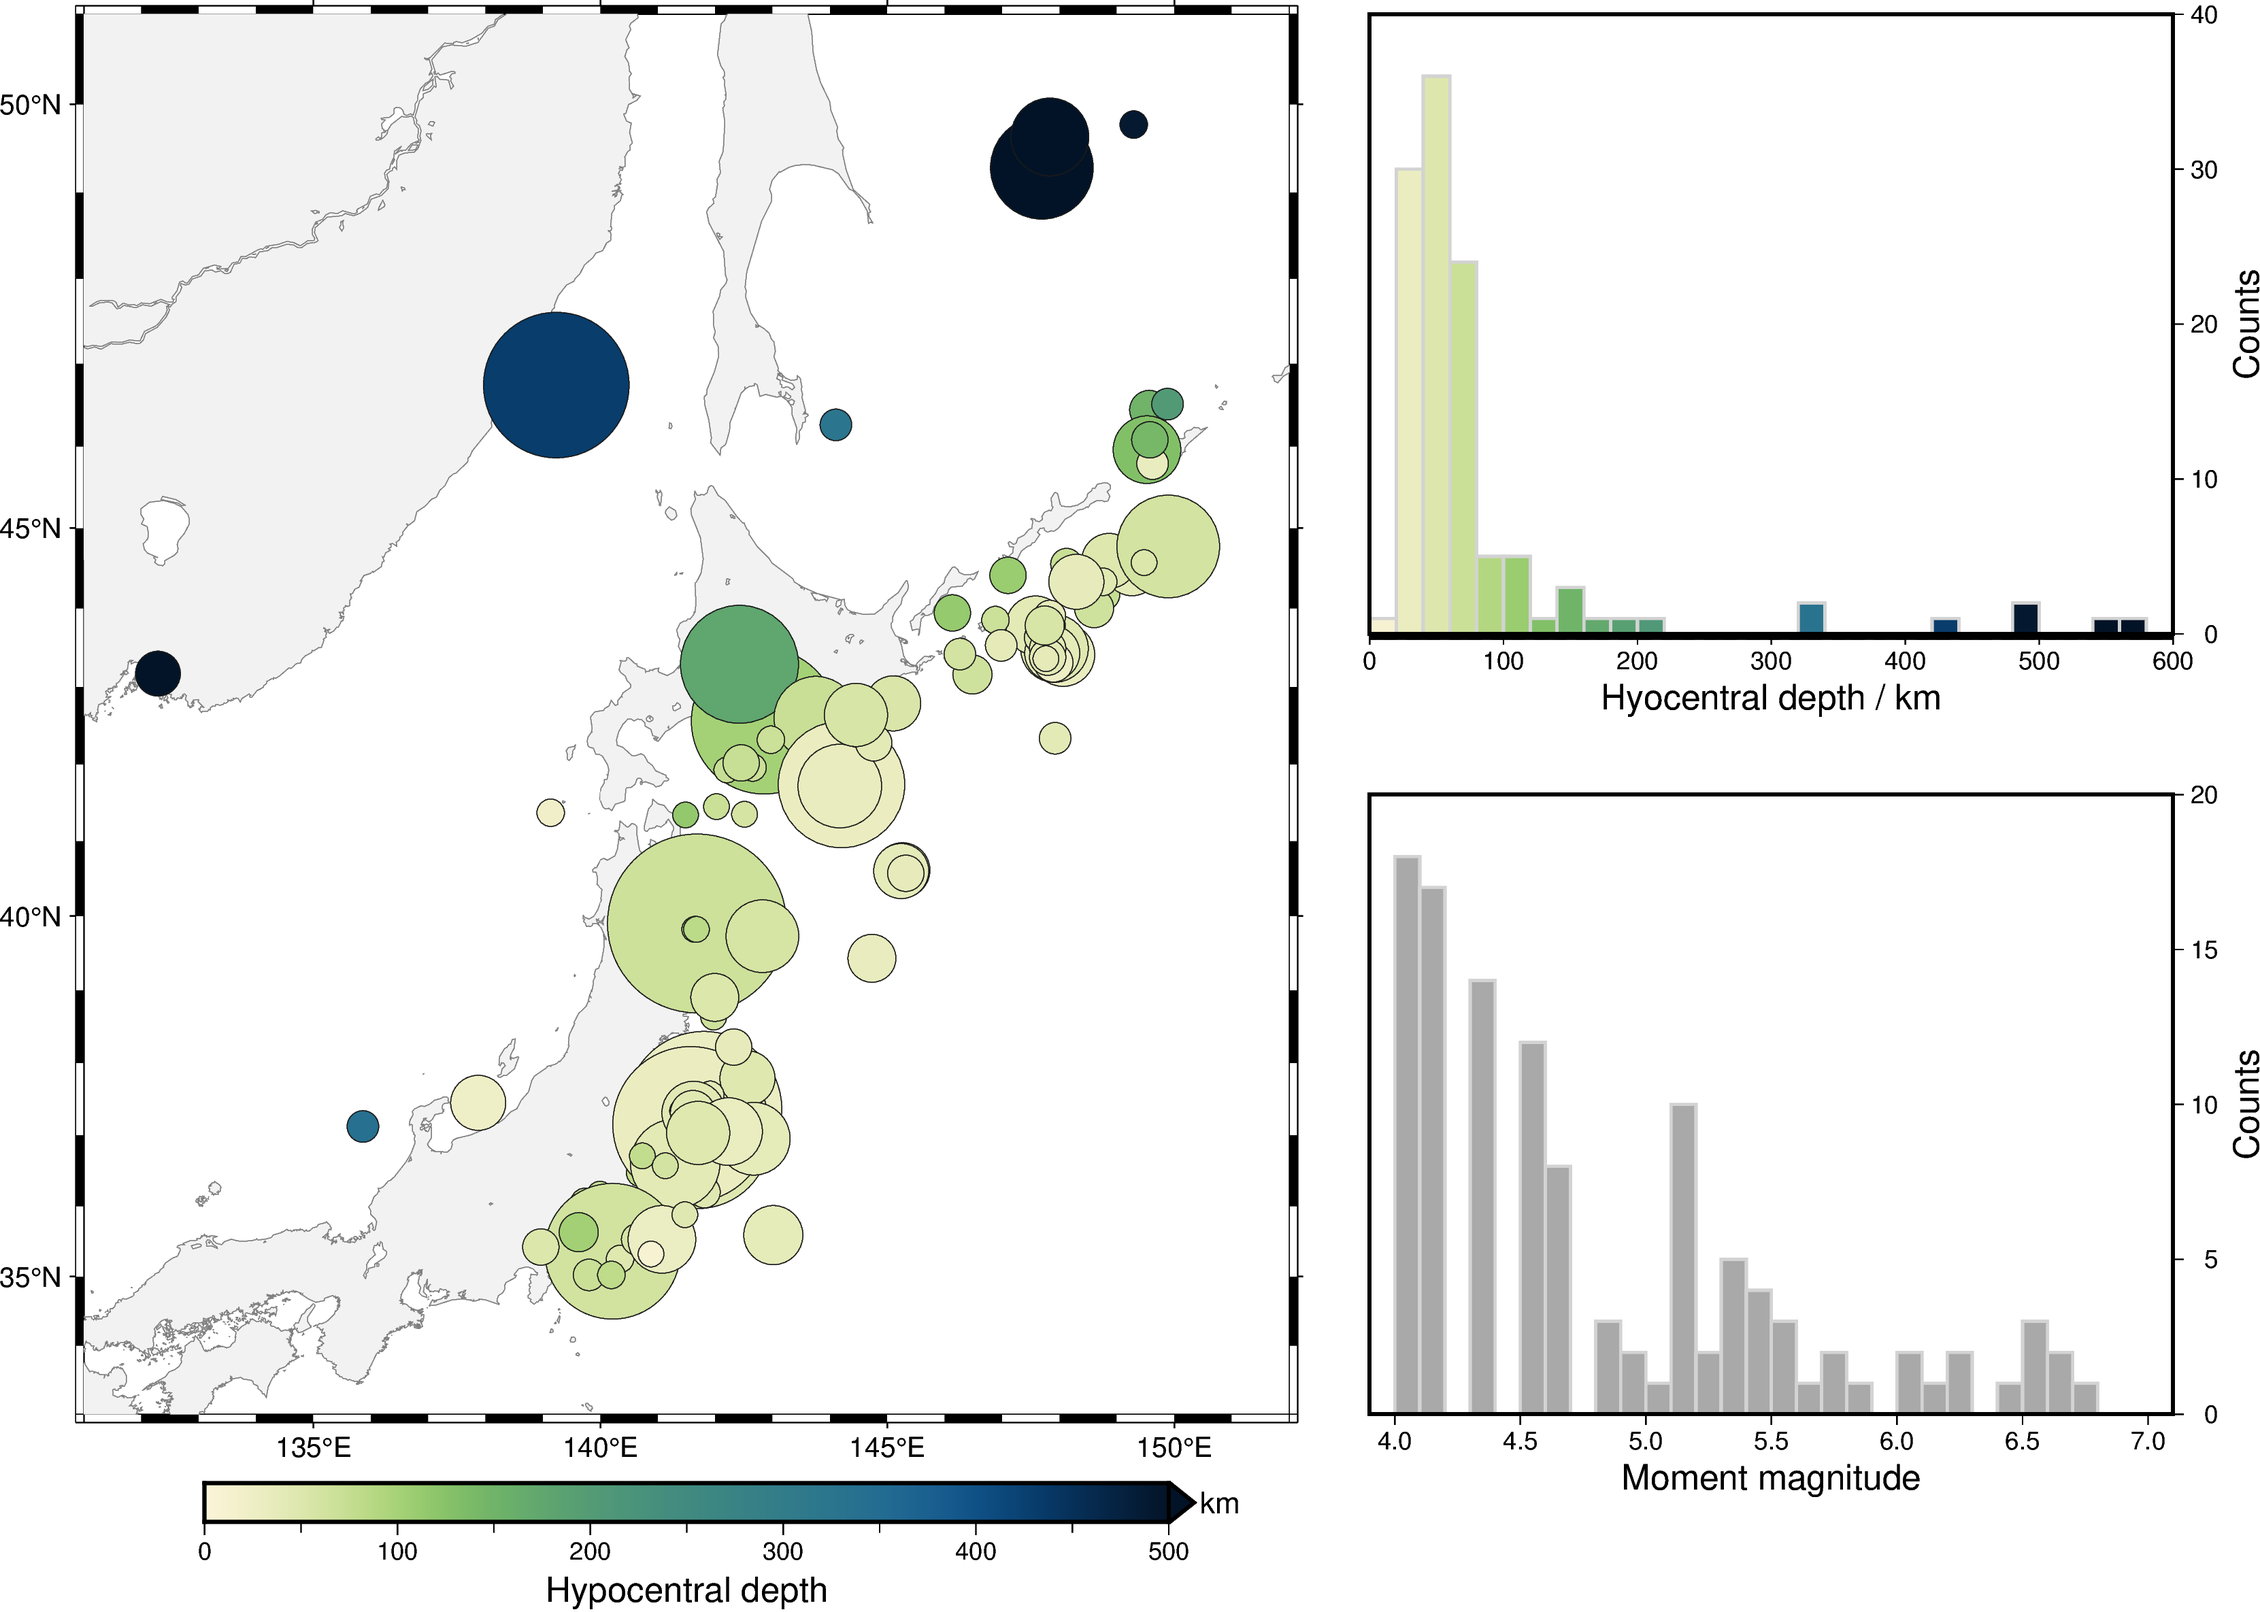
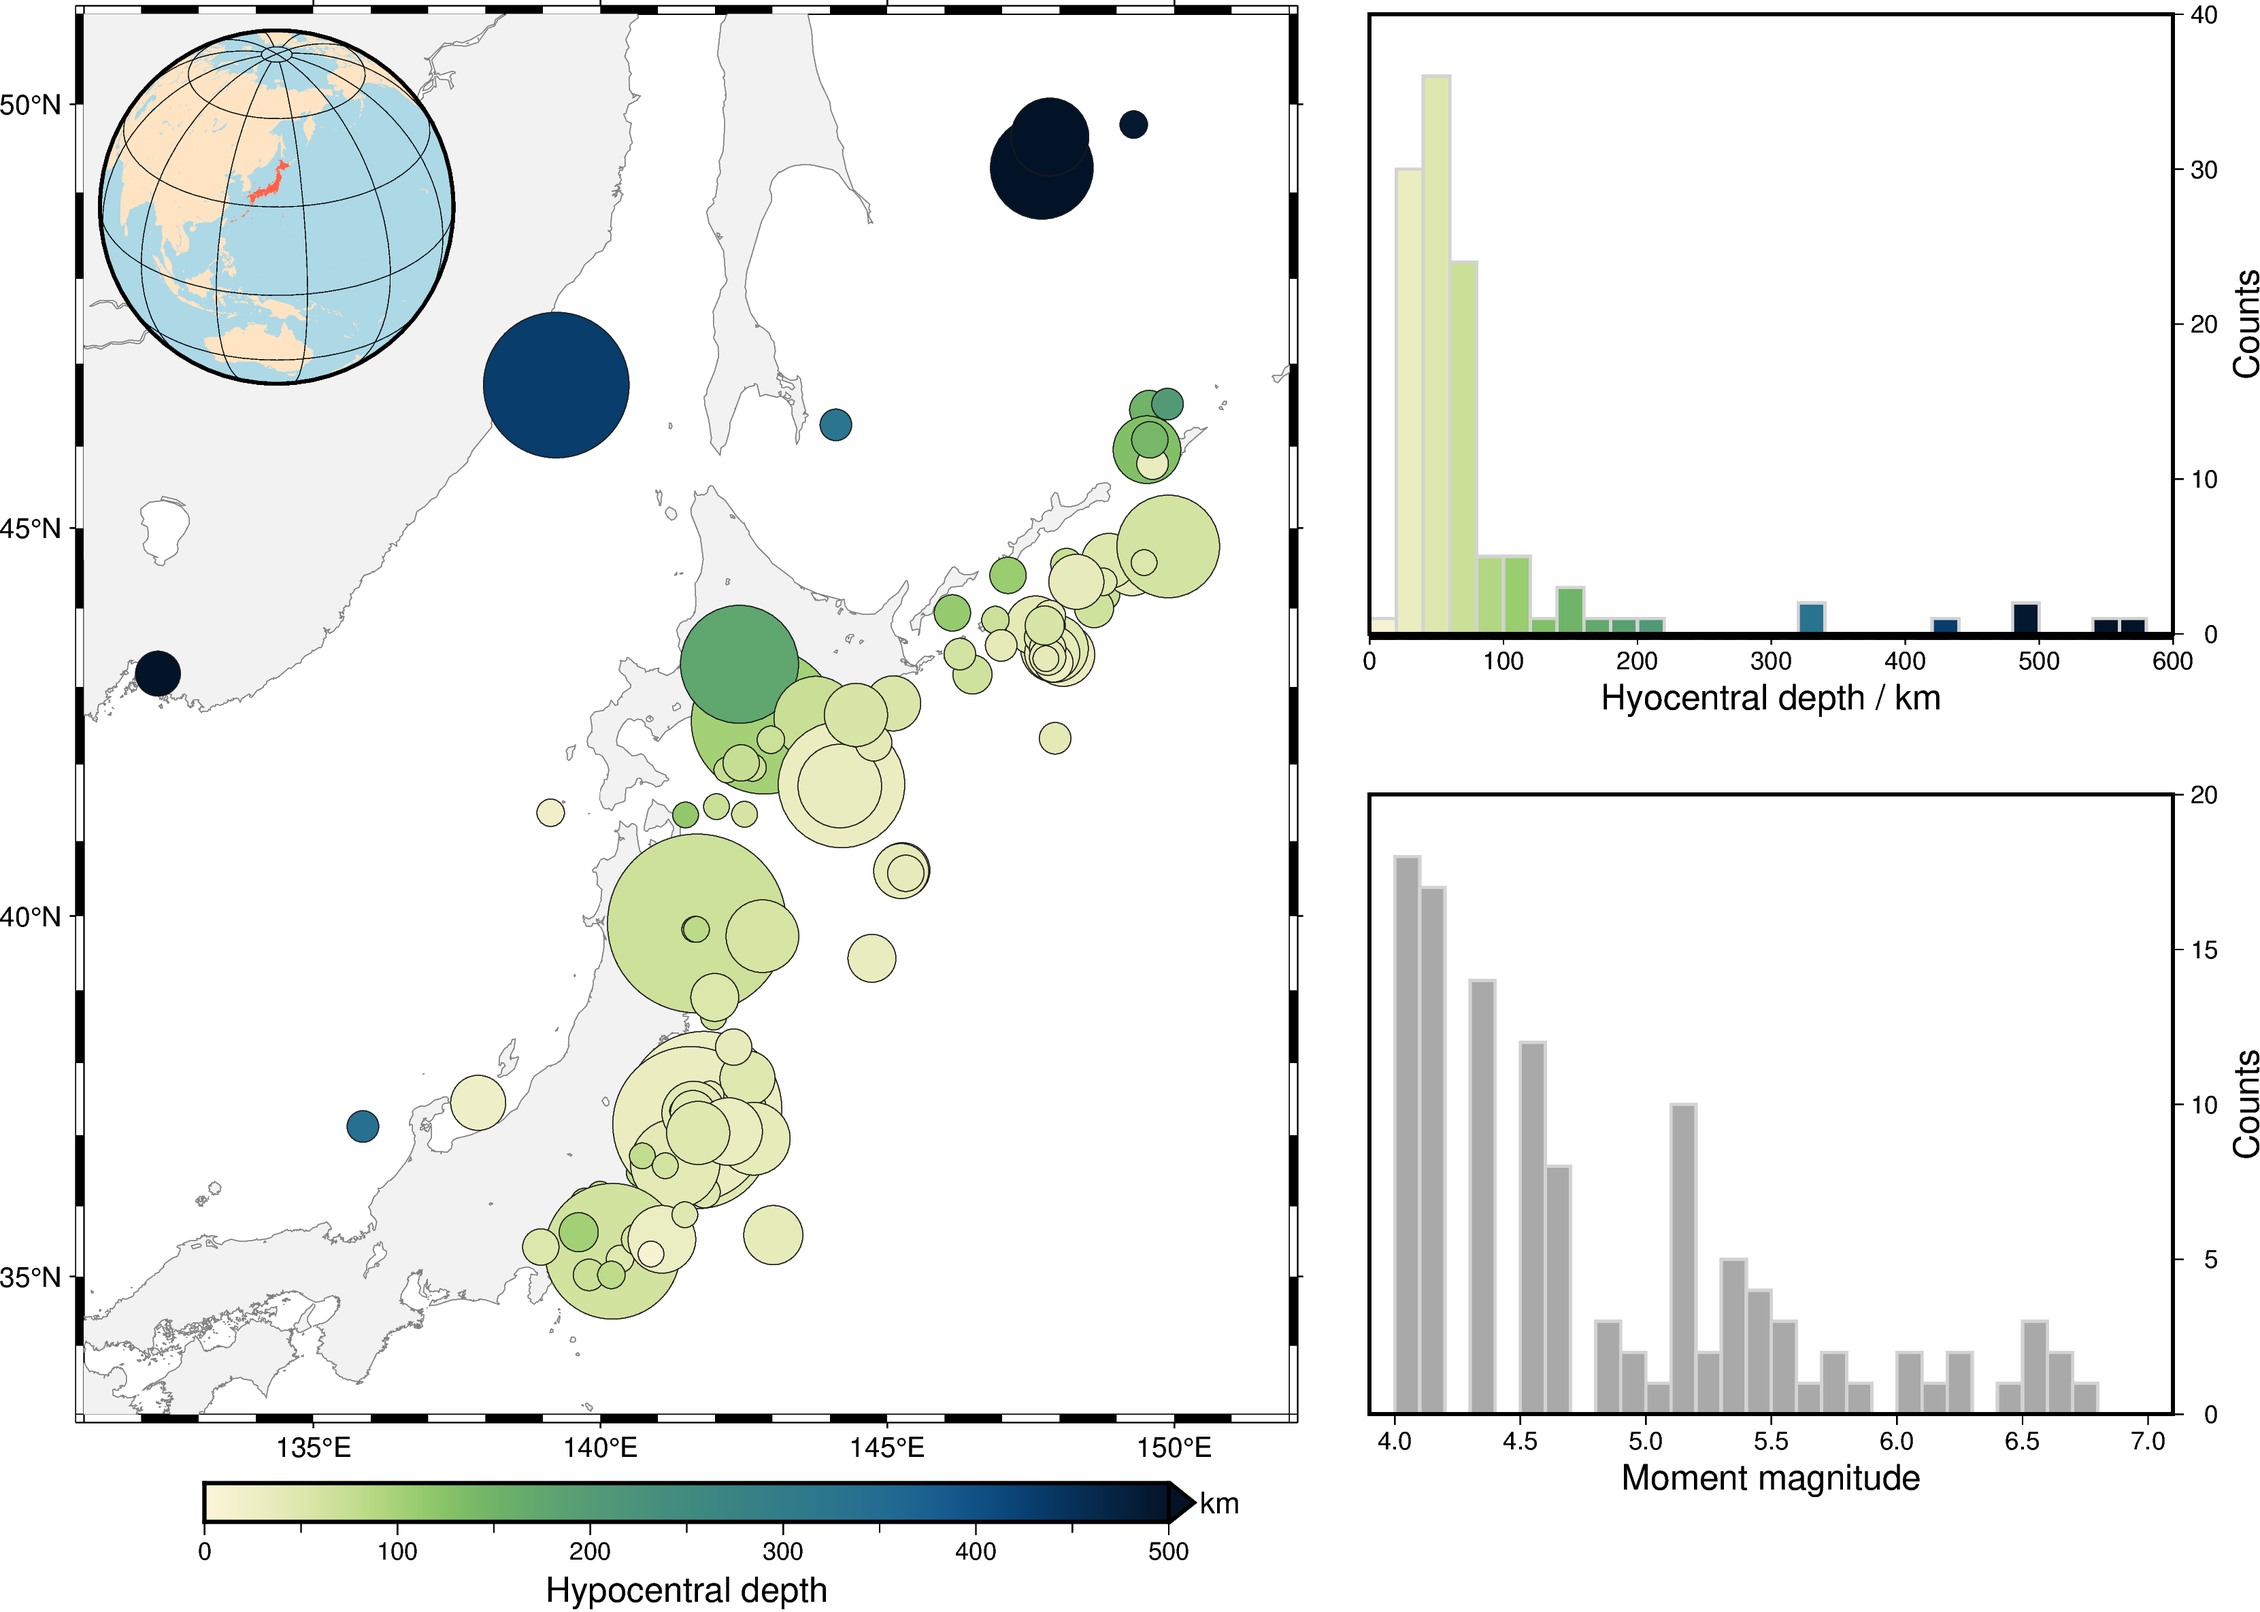
Add inset map showing study area globally

Changed region(s): [[0.031, 0.0, 0.217, 0.2498]]

diff --git a/Fig4_PyGMt_pandas.py b/Fig4_PyGMt_pandas.py
@@ -33,11 +33,19 @@ histo_height = (map_height - 2) / 2
 # Create Figure
 fig = pygmt.Figure()
 
-# Map showing epicenters with color- and size-coding for hypocentral depth or
-# moment magnitude
+# Main map
 fig.basemap(region=region_main, projection=projection_main, frame=True)
 fig.coast(land="gray95", shorelines="gray50")
 
+# Inset showing study area globaly
+with fig.inset(position="jTL+w4.5c+o0.15c", margin=0.05):
+    fig.basemap(region="g", projection="G140/30/?", frame=0)
+    # Mark Japan via dcw or plot rectangle of study area via r+s
+    fig.coast(land="bisque", water="lightblue", dcw="JP+gtomato")
+    fig.basemap(frame="g30")
+
+# Plot epicenters with color- and size-coding for hypocentral depth or moment
+# magnitude
 pygmt.makecpt(cmap="SCM/navia", series=[0, 500], reverse=True)
 fig.colorbar(frame=["xa100f50+lHypocentral depth", "y+lkm"], position="+ef0.3c")
 fig.plot(
